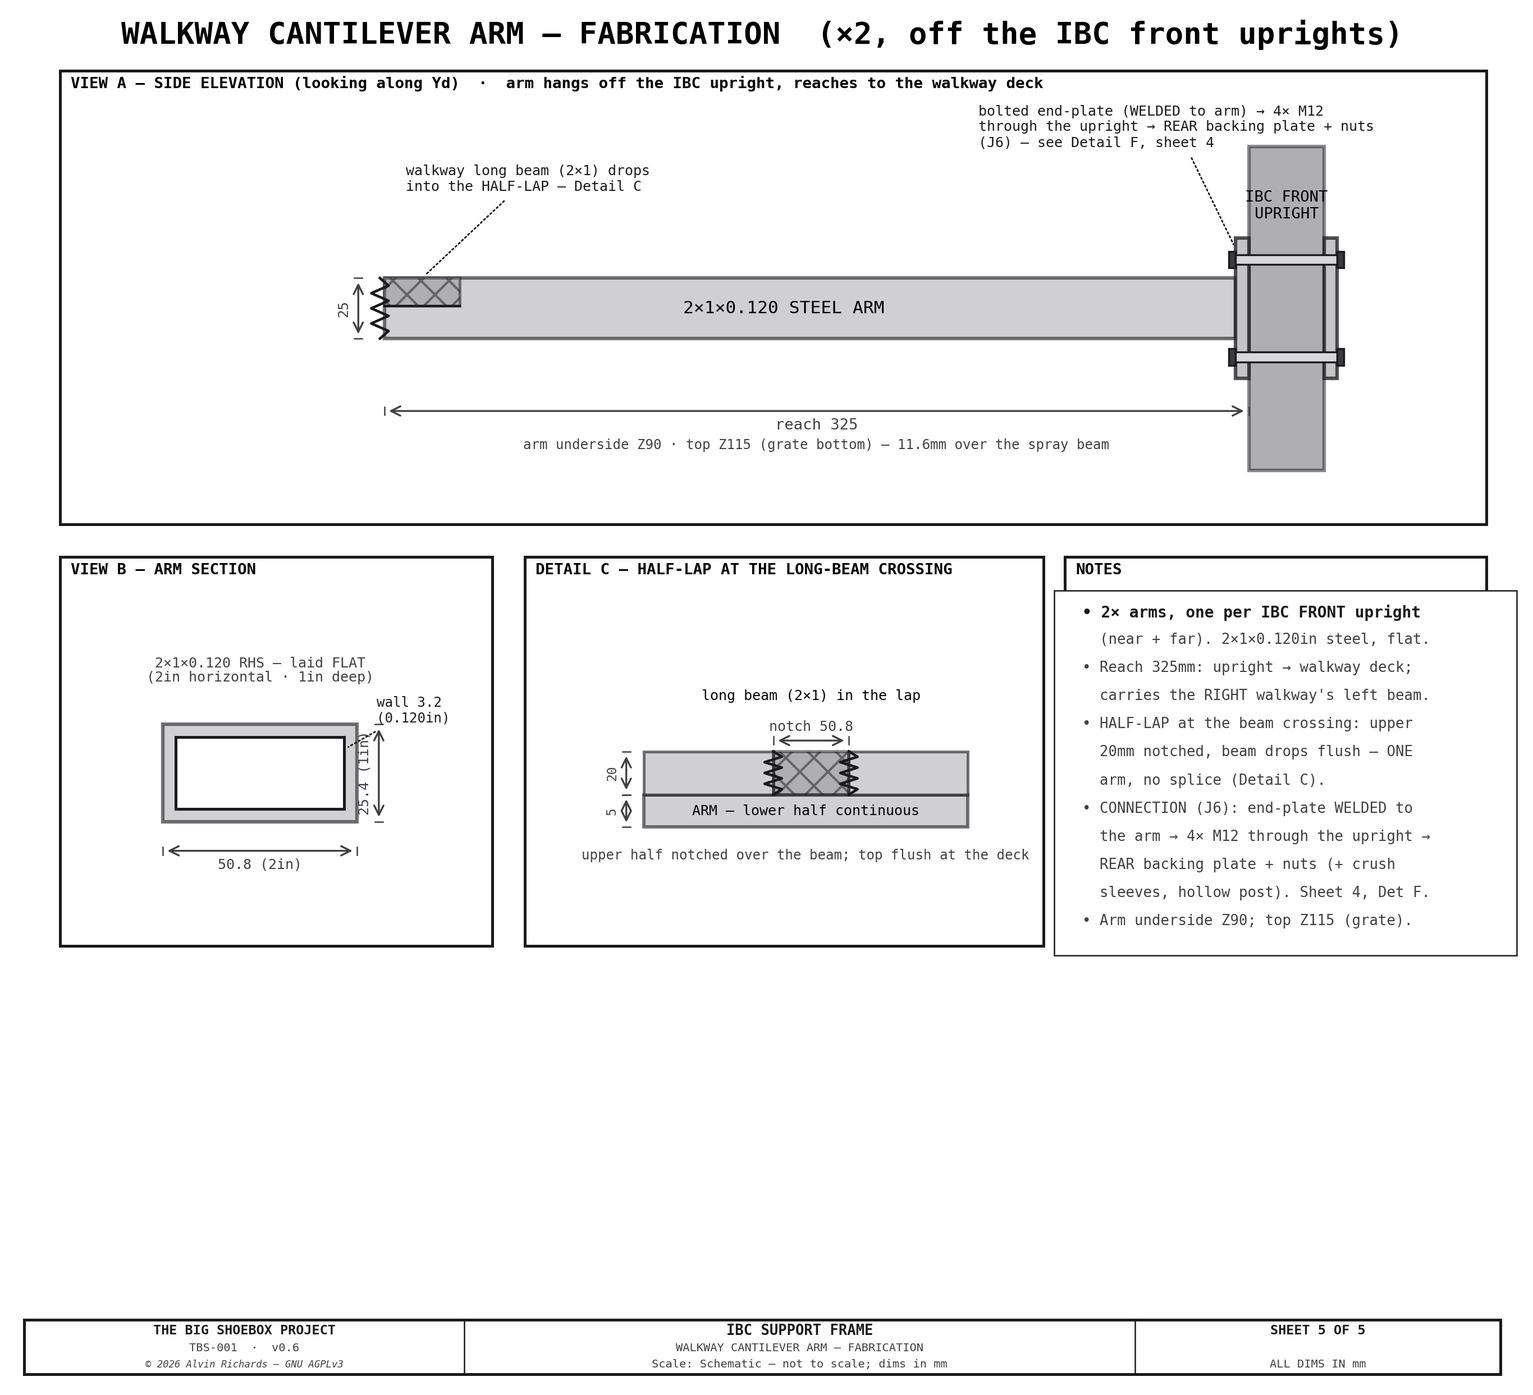
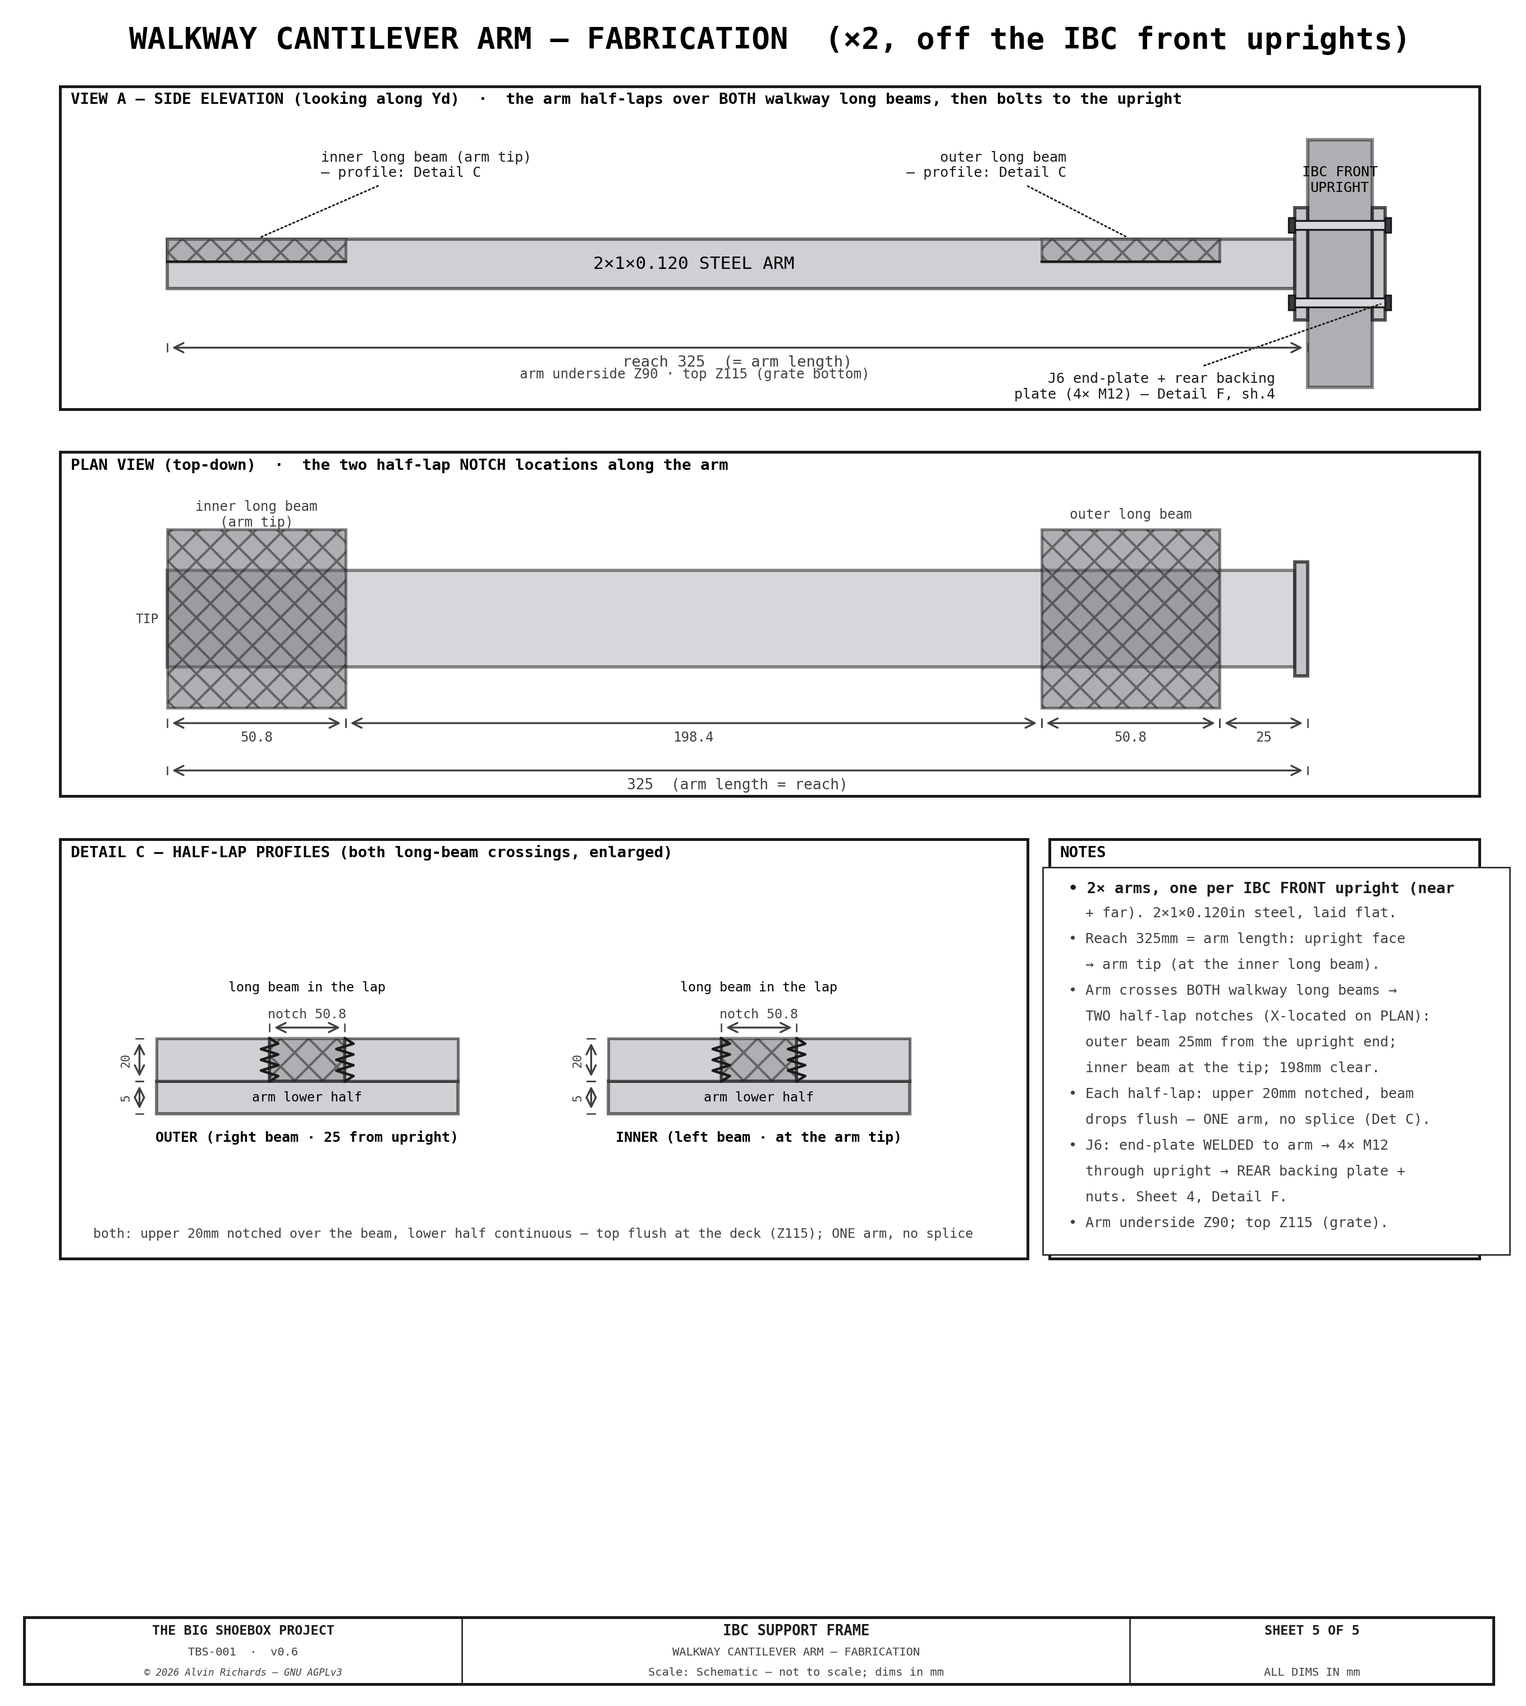
IBC frame Sheet 5: drop VIEW B, add PLAN view + both notch profiles
The arm crosses BOTH right-walkway long beams (RWK_BEARER_XS = 4329, 4578),
so it has TWO half-lap notches, not one. Reworked Sheet 5:
- Removed VIEW B (arm section) - added no value.
- VIEW A side elevation now shows both beam half-laps + the J6 end-plate.
- NEW PLAN VIEW (top-down) locating the two notches with a chain dimension:
  50.8 / 198.4 / 50.8 / 25 -> 325 (outer beam 25mm from the upright end,
  inner beam at the tip, 198mm clear).
- DETAIL C now shows BOTH half-lap profiles (OUTER + INNER) side by side.

Report §3.5 embed lead-in + §8 Sheet 5 description updated to match.

Changed region(s): [[0.0309, 0.0, 0.9577, 0.7437], [0.0309, 0.9296, 0.9886, 0.9915], [0.3398, 0.6507, 0.3707, 0.6817]]

diff --git a/src/generators/generate_ibc_frame_drawing.py b/src/generators/generate_ibc_frame_drawing.py
@@ -1250,82 +1250,95 @@ def sheet4():
 def sheet5():
     """Sheet 5 — the 2 walkway cantilever arms that hang off the IBC FRONT uprights (fab).
     The arm's own detailing (section, reach, half-lap); the clamp CONNECTION is Detail F on sheet4."""
-    fig, ax = plt.subplots(figsize=(16.5, 10.5))
-    ax.set_xlim(-20, 1360); ax.set_ylim(-360, 900); ax.set_aspect("equal"); ax.axis("off")
-    ax.text(670, 875, "WALKWAY CANTILEVER ARM — FABRICATION  (×2, off the IBC front uprights)",
+    fig, ax = plt.subplots(figsize=(16.5, 12.9))
+    ax.set_xlim(-20, 1360); ax.set_ylim(-360, 1195); ax.set_aspect("equal"); ax.axis("off")
+    ax.text(680, 1165, "WALKWAY CANTILEVER ARM — FABRICATION  (×2, off the IBC front uprights)",
             fontsize=13, fontweight="bold", ha="center", **FONT)
 
-    # ── VIEW A — SIDE ELEVATION (X–Z, looking along Yd): upright → arm → deck long-beam ──
-    _dcell(ax, 20, 430, 1320, 420, "VIEW A — SIDE ELEVATION (looking along Yd)  ·  arm hangs off the IBC upright, reaches to the walkway deck")
-    az = 630                                                   # arm centreline (schematic Z, inside the cell)
-    ah = 56                                                    # arm depth drawn (25.4 exaggerated)
-    ux = 1120                                                  # upright face X (schematic)
-    dx = 320                                                   # deck long-beam X (schematic)
-    _rhs_rect(ax, ux, az - 150, 70, 300, fc=C_FRAME, alpha=0.5, zo=4)                     # IBC front upright (within the cell)
-    ax.text(ux + 35, az + 95, "IBC FRONT\nUPRIGHT", fontsize=6.5, ha="center", va="center", **FONT, zorder=8)
-    ep_x, ep_h = 12, 130                                                                 # arm END-PLATE (drawn thickness / height)
-    _rhs_rect(ax, dx, az - ah/2, ux - ep_x - dx, ah, fc=C_STEEL, alpha=0.6, zo=5)         # the 2×1×0.120 arm (ends at the end-plate)
-    ax.text((dx + ux)/2 - 30, az, "2×1×0.120 STEEL ARM", fontsize=7.5, ha="center", va="center", **FONT, zorder=8)
-    lbw = 70                                                                             # half-lap: arm TOP notched over the long-beam width
-    ax.add_patch(Rectangle((dx, az + 2), lbw, ah/2 - 2, fc=BG, ec="none", zorder=6))
-    ax.add_patch(Rectangle((dx, az + 2), lbw, ah/2 - 2, fc=C_FRAME, ec=C_OUT, alpha=0.5, hatch="xx", lw=1.2, zorder=7))  # long beam in the lap
-    ax.plot([dx, dx + lbw], [az + 2, az + 2], color=C_OUT, lw=1.0, zorder=8)             # half-lap line
-    _break(ax, dx - 4, az - ah/2, az + ah/2)                                             # long beam continues in Yd (out of page)
-    leader(ax, dx + lbw/2, az + ah/2, dx + 20, az + 120, "walkway long beam (2×1) drops\ninto the HALF-LAP — Detail C", fs=6, font=FONT, ha="left")
-    # J6 — bolted end-plate: plate WELDED to the arm end → 4× M12 through the upright → REAR backing plate + nuts
-    ax.add_patch(Rectangle((ux - ep_x, az - ep_h/2), ep_x, ep_h, fc=C_STEEL, ec=C_OUT, alpha=0.75, lw=1.5, zorder=9))   # end-plate on the −X face (welded to arm)
-    ax.add_patch(Rectangle((ux + 70, az - ep_h/2), ep_x, ep_h, fc=C_STEEL, ec=C_OUT, alpha=0.75, lw=1.5, zorder=9))     # rear backing plate on the +X face
-    for bz in (az - 45, az + 45):                                                        # 2 of the 4 bolts show (the Yd pair projects onto each)
-        _bolt(ax, ux - ep_x, bz, 70 + 2 * ep_x, d=9, nut=True)
-    leader(ax, ux - ep_x, az + 55, ux - 250, az + 168,
-           "bolted end-plate (WELDED to arm) → 4× M12\nthrough the upright → REAR backing plate + nuts\n(J6) — see Detail F, sheet 4", fs=6, font=FONT, ha="left")
-    draw_dim_h(ax, dx, ux, az - 95, "reach 325", fs=6.5, font=FONT, above=False)
-    draw_dim_v(ax, dx - 24, az - ah/2, az + ah/2, "25", fs=6, font=FONT)
-    ax.text((dx + ux) / 2, az - 130, "arm underside Z90 · top Z115 (grate bottom) — 11.6mm over the spray beam",
-            fontsize=5.8, ha="center", color=C_DIM, **FONT)
+    # ── schematic X map along the arm: tip (inner-beam L edge) → upright face, reach 325 ──
+    XT, XUP, ep_x = 120, 1180, 12
+    SCL = (XUP - XT) / 325.0                                    # px per mm along the arm
+    def axm(mm): return XT + mm * SCL                           # mm from the tip → schematic X
+    XIN0, XIN1 = axm(0.0),   axm(50.8)                          # inner notch — LEFT long beam (at the arm tip)
+    XOUT0, XOUT1 = axm(249.2), axm(300.0)                       # outer notch — RIGHT long beam
+    _hatch = dict(fc=C_FRAME, ec=C_OUT, alpha=0.5, hatch="xx")
 
-    # ── VIEW B — ARM SECTION (2×1×0.120) ──
-    _dcell(ax, 20, 40, 400, 360, "VIEW B — ARM SECTION")
-    scx, scy = 205, 200
-    _rhs_rect(ax, scx - 90, scy - 45, 180, 90, fc=C_STEEL, alpha=0.6, zo=5)
-    ax.add_patch(Rectangle((scx - 78, scy - 33), 156, 66, fc=BG, ec=C_OUT, lw=1.2, zorder=6))   # bore (wall shown)
-    draw_dim_h(ax, scx - 90, scx + 90, scy - 72, "50.8 (2in)", fs=6, font=FONT, above=False)
-    draw_dim_v(ax, scx + 110, scy - 45, scy + 45, "25.4 (1in)", fs=6, font=FONT)
-    leader(ax, scx + 78, scy + 22, scx + 108, scy + 58, "wall 3.2\n(0.120in)", fs=5.8, font=FONT, ha="left")
-    ax.text(scx, scy + 98, "2×1×0.120 RHS — laid FLAT", fontsize=6, ha="center", color=C_DIM, **FONT)
-    ax.text(scx, scy + 85, "(2in horizontal · 1in deep)", fontsize=6, ha="center", color=C_DIM, **FONT)
+    # ── VIEW A — SIDE ELEVATION (looking along Yd): arm crosses BOTH long beams, then bolts to the upright ──
+    _dcell(ax, 20, 830, 1320, 300, "VIEW A — SIDE ELEVATION (looking along Yd)  ·  the arm half-laps over BOTH walkway long beams, then bolts to the upright")
+    az, ah, ep_h = 965, 46, 104                                # arm centreline Z / drawn depth / end-plate height
+    _rhs_rect(ax, XUP, az - 115, 60, 230, fc=C_FRAME, alpha=0.5, zo=4)                    # IBC front upright
+    ax.text(XUP + 30, az + 78, "IBC FRONT\nUPRIGHT", fontsize=6, ha="center", va="center", **FONT, zorder=8)
+    ax.add_patch(Rectangle((XT, az - ah/2), (XUP - ep_x) - XT, ah, fc=C_STEEL, ec=C_OUT, alpha=0.6, lw=1.4, zorder=5))  # the arm
+    for n0, n1 in ((XIN0, XIN1), (XOUT0, XOUT1)):                                          # long beam dropped into each half-lap
+        ax.add_patch(Rectangle((n0, az + 2), n1 - n0, ah/2 - 2, fc=BG, ec="none", zorder=6))
+        ax.add_patch(Rectangle((n0, az + 2), n1 - n0, ah/2 - 2, lw=1.2, zorder=7, **_hatch))
+        ax.plot([n0, n1], [az + 2, az + 2], color=C_OUT, lw=1.0, zorder=8)                # half-lap line
+    ax.text((XIN1 + XOUT0)/2, az, "2×1×0.120 STEEL ARM", fontsize=7.5, ha="center", va="center", **FONT, zorder=8)
+    leader(ax, (XIN0+XIN1)/2, az + ah/2, (XIN0+XIN1)/2 + 60, az + 92, "inner long beam (arm tip)\n— profile: Detail C", fs=6, font=FONT, ha="left")
+    leader(ax, (XOUT0+XOUT1)/2, az + ah/2, (XOUT0+XOUT1)/2 - 60, az + 92, "outer long beam\n— profile: Detail C", fs=6, font=FONT, ha="right")
+    ax.add_patch(Rectangle((XUP - ep_x, az - ep_h/2), ep_x, ep_h, fc=C_STEEL, ec=C_OUT, alpha=0.75, lw=1.4, zorder=9))  # end-plate (welded to arm)
+    ax.add_patch(Rectangle((XUP + 60, az - ep_h/2), ep_x, ep_h, fc=C_STEEL, ec=C_OUT, alpha=0.75, lw=1.4, zorder=9))    # rear backing plate
+    for bz in (az - 36, az + 36):
+        _bolt(ax, XUP - ep_x, bz, 60 + 2 * ep_x, d=8, nut=True)
+    leader(ax, XUP + 60 + ep_x, az - 36, XUP - 30, az - 114, "J6 end-plate + rear backing\nplate (4× M12) — Detail F, sh.4", fs=6, font=FONT, ha="right")
+    draw_dim_h(ax, XT, XUP, az - 78, "reach 325  (= arm length)", fs=6.5, font=FONT, above=False)
+    ax.text((XT + XUP)/2 - 40, az - 106, "arm underside Z90 · top Z115 (grate bottom)", fontsize=5.8, ha="center", color=C_DIM, **FONT)
 
-    # ── DETAIL C — HALF-LAP (enlarged) ──
-    _dcell(ax, 450, 40, 480, 360, "DETAIL C — HALF-LAP AT THE LONG-BEAM CROSSING")
-    hx, hz = 560, 150
-    ax.add_patch(Rectangle((hx, hz), 300, 30, fc=C_STEEL, ec=C_OUT, alpha=0.6, lw=1.4, zorder=5))   # arm LOWER half (continuous)
-    ax.text(hx + 150, hz + 15, "ARM — lower half continuous", fontsize=6, ha="center", va="center", **FONT, zorder=8)
-    ax.add_patch(Rectangle((hx, hz + 30), 120, 40, fc=C_STEEL, ec=C_OUT, alpha=0.6, lw=1.2, zorder=5))   # arm upper half (left)
-    ax.add_patch(Rectangle((hx + 190, hz + 30), 110, 40, fc=C_STEEL, ec=C_OUT, alpha=0.6, lw=1.2, zorder=5))  # arm upper half (right)
-    ax.add_patch(Rectangle((hx + 120, hz + 30), 70, 40, fc=C_FRAME, ec=C_OUT, alpha=0.5, hatch="xx", lw=1.4, zorder=6))  # long beam in the notch
-    _break(ax, hx + 120, hz + 30, hz + 70); _break(ax, hx + 190, hz + 30, hz + 70)
-    draw_dim_h(ax, hx + 120, hx + 190, hz + 80, "notch 50.8", fs=6, font=FONT, above=True)
-    ax.text(hx + 155, hz + 118, "long beam (2×1) in the lap", fontsize=6, ha="center", **FONT, zorder=8)
-    draw_dim_v(ax, hx - 16, hz + 30, hz + 70, "20", fs=5.5, font=FONT)     # upper half notched away
-    draw_dim_v(ax, hx - 16, hz, hz + 30, "5", fs=5.5, font=FONT)           # lower half remaining
-    ax.text(hx + 150, hz - 30, "upper half notched over the beam; top flush at the deck", fontsize=5.8, ha="center", color=C_DIM, **FONT)
+    # ── PLAN VIEW — top-down: the two notch LOCATIONS along the arm ──
+    _dcell(ax, 20, 470, 1320, 320, "PLAN VIEW (top-down)  ·  the two half-lap NOTCH locations along the arm")
+    py, dw = 635, 90                                            # arm centreline (Yd) / drawn width (50.8 exaggerated)
+    ax.add_patch(Rectangle((XT, py - dw/2), (XUP - ep_x) - XT, dw, fc=C_STEEL, ec=C_OUT, alpha=0.5, lw=1.4, zorder=5))  # arm, top-down
+    ax.add_patch(Rectangle((XUP - ep_x, py - dw/2 - 8), ep_x, dw + 16, fc=C_STEEL, ec=C_OUT, alpha=0.75, lw=1.4, zorder=7))  # end-plate
+    for (n0, n1), lbl in (((XIN0, XIN1), "inner long beam\n(arm tip)"), ((XOUT0, XOUT1), "outer long beam")):
+        ax.add_patch(Rectangle((n0, py - dw/2 - 38), n1 - n0, dw + 76, lw=1.2, zorder=6, **_hatch))   # long beam crossing (runs in Yd)
+        ax.text((n0 + n1)/2, py + dw/2 + 52, lbl, fontsize=5.8, ha="center", va="center", color=C_DIM, **FONT)
+    ax.text(XT - 8, py, "TIP", fontsize=5.5, ha="right", va="center", color=C_DIM, **FONT)
+    zc = py - dw/2 - 52                                         # chain-dim line
+    draw_dim_h(ax, XT, XIN1, zc, "50.8", fs=5.8, font=FONT, above=False)
+    draw_dim_h(ax, XIN1, XOUT0, zc, "198.4", fs=5.8, font=FONT, above=False)
+    draw_dim_h(ax, XOUT0, XOUT1, zc, "50.8", fs=5.8, font=FONT, above=False)
+    draw_dim_h(ax, XOUT1, XUP, zc, "25", fs=5.8, font=FONT, above=False)
+    draw_dim_h(ax, XT, XUP, zc - 44, "325  (arm length = reach)", fs=6.3, font=FONT, above=False)
+
+    # ── DETAIL C — the TWO half-lap profiles (enlarged) ──
+    _dcell(ax, 20, 40, 900, 390, "DETAIL C — HALF-LAP PROFILES (both long-beam crossings, enlarged)")
+
+    def _halflap(cx, cz, title):
+        ax.add_patch(Rectangle((cx - 140, cz), 280, 30, fc=C_STEEL, ec=C_OUT, alpha=0.6, lw=1.4, zorder=5))   # lower half continuous
+        ax.text(cx, cz + 15, "arm lower half", fontsize=5.6, ha="center", va="center", **FONT, zorder=8)
+        ax.add_patch(Rectangle((cx - 140, cz + 30), 105, 40, fc=C_STEEL, ec=C_OUT, alpha=0.6, lw=1.2, zorder=5))  # upper (left)
+        ax.add_patch(Rectangle((cx + 35, cz + 30), 105, 40, fc=C_STEEL, ec=C_OUT, alpha=0.6, lw=1.2, zorder=5))   # upper (right)
+        ax.add_patch(Rectangle((cx - 35, cz + 30), 70, 40, lw=1.4, zorder=6, **_hatch))                          # long beam in the lap
+        _break(ax, cx - 35, cz + 30, cz + 70); _break(ax, cx + 35, cz + 30, cz + 70)
+        draw_dim_h(ax, cx - 35, cx + 35, cz + 80, "notch 50.8", fs=5.6, font=FONT, above=True)
+        ax.text(cx, cz + 114, "long beam in the lap", fontsize=5.6, ha="center", **FONT, zorder=8)
+        draw_dim_v(ax, cx - 140 - 16, cz + 30, cz + 70, "20", fs=5.2, font=FONT)   # upper notched away
+        draw_dim_v(ax, cx - 140 - 16, cz, cz + 30, "5", fs=5.2, font=FONT)         # lower continuous
+        ax.text(cx, cz - 26, title, fontsize=6, ha="center", fontweight="bold", **FONT, zorder=8)
+
+    _halflap(250, 175, "OUTER (right beam · 25 from upright)")
+    _halflap(670, 175, "INNER (left beam · at the arm tip)")
+    ax.text(460, 60, "both: upper 20mm notched over the beam, lower half continuous — top flush at the deck (Z115); ONE arm, no splice",
+            fontsize=5.6, ha="center", color=C_DIM, **FONT)
 
     # ── NOTES ──
-    _dcell(ax, 950, 40, 390, 360, "NOTES")
+    _dcell(ax, 940, 40, 400, 390, "NOTES")
     draw_notes(ax, [
-        "• 2× arms, one per IBC FRONT upright",
-        "  (near + far). 2×1×0.120in steel, flat.",
-        "• Reach 325mm: upright → walkway deck;",
-        "  carries the RIGHT walkway's left beam.",
-        "• HALF-LAP at the beam crossing: upper",
-        "  20mm notched, beam drops flush — ONE",
-        "  arm, no splice (Detail C).",
-        "• CONNECTION (J6): end-plate WELDED to",
-        "  the arm → 4× M12 through the upright →",
-        "  REAR backing plate + nuts (+ crush",
-        "  sleeves, hollow post). Sheet 4, Det F.",
+        "• 2× arms, one per IBC FRONT upright (near",
+        "  + far). 2×1×0.120in steel, laid flat.",
+        "• Reach 325mm = arm length: upright face",
+        "  → arm tip (at the inner long beam).",
+        "• Arm crosses BOTH walkway long beams →",
+        "  TWO half-lap notches (X-located on PLAN):",
+        "  outer beam 25mm from the upright end;",
+        "  inner beam at the tip; 198mm clear.",
+        "• Each half-lap: upper 20mm notched, beam",
+        "  drops flush — ONE arm, no splice (Det C).",
+        "• J6: end-plate WELDED to arm → 4× M12",
+        "  through upright → REAR backing plate +",
+        "  nuts. Sheet 4, Detail F.",
         "• Arm underside Z90; top Z115 (grate).",
-    ], 966, 356, spacing=26, fs=6.2, font=FONT, width=376)
+    ], 958, 392, spacing=24, fs=6.0, font=FONT, width=386)
 
     title_block(ax, "SHEET 5 OF 5",
                 drawing_title="IBC SUPPORT FRAME",

diff --git a/ibc-stacking-report.md b/ibc-stacking-report.md
@@ -211,7 +211,7 @@ These joints are drawn on **Sheet 4** (each with its weld + fastener callout):
 
 ![TBS-001 IBC Frame — Sheet 4: Fabrication Details](assets/ibc-frame-sheet4.png)
 
-The walkway cantilever arms — how each arm is cut, the half-lap where it crosses the walkway deck long-beam, and the section — are drawn on **Sheet 5** (the connection into the upright is the same J6 end-plate shown on Sheet 4, Detail F):
+The walkway cantilever arms — how each arm is cut, and the **two half-laps** where it crosses the walkway's inner + outer long beams (located on the plan view) — are drawn on **Sheet 5** (the connection into the upright is the same J6 end-plate shown on Sheet 4, Detail F):
 
 ![TBS-001 IBC Frame — Sheet 5: Walkway Cantilever Arm Fabrication](assets/ibc-frame-sheet5.png)
 
@@ -415,7 +415,7 @@ relevant sections above; the full set is collected here and in [Engineering Diag
 **Sheet 4 — Fabrication details: DETAIL A wall joist hanger (per-bar, 2-bolt, 50mm clearance), B bar→upright cleat, C weld-on lashing ring, D rear-panel bracket, E side-panel pipe-run L-bracket, F walkway arm→front-upright bolted end-plate (arm end-plate + rear backing plate, 4× M12 through-bolts, J6) — each with weld (W) + fastener (J) callouts**
 ![TBS-001 IBC Frame — Sheet 4](assets/ibc-frame-sheet4.png)
 
-**Sheet 5 — Walkway cantilever arm fabrication (×2, off the IBC front uprights): VIEW A side elevation (arm reaching 325 mm from the upright to the walkway deck; J6 bolted end-plate — plate welded to the arm, 4× M12 through the upright into a rear backing plate), VIEW B arm section (2×1×0.120 RHS laid flat), DETAIL C half-lap where the arm crosses the deck long-beam (upper 20 mm notched, beam drops in flush — one continuous arm)**
+**Sheet 5 — Walkway cantilever arm fabrication (×2, off the IBC front uprights): VIEW A side elevation (arm reaching 325 mm from the upright to the tip; J6 bolted end-plate — plate welded to the arm, 4× M12 through the upright into a rear backing plate), PLAN VIEW locating the two half-lap notches along the arm (outer long beam 25 mm from the upright end, inner long beam at the tip, 198 mm clear between), DETAIL C the two half-lap profiles (each: upper 20 mm notched, beam drops in flush — one continuous arm, no splice)**
 ![TBS-001 IBC Frame — Sheet 5](assets/ibc-frame-sheet5.png)
 
 **Plate Schedule Sheet 1 — Structural plates drawn 1:1 for the shop: PLATE 1 IBC floor foot (150×150×12, 4× Ø14 @ 100 sq PCD), PLATE 2 wall-hanger exterior backing (60×205×8, 2× Ø14 @ 169), PLATE 3 wall-hanger pocket (folded 4 mm back-plate + 70 seat, J3 + J7 holes) — each with outline dims, hole Ø + center positions, thickness, material, and qty**

diff --git a/RELEASE.md b/RELEASE.md
@@ -27,11 +27,13 @@ file** — a release must not ship without a changelog entry:
 - **NEW — IBC frame Sheet 5: walkway cantilever-arm fabrication (`ibc-frame-sheet5.png`).** The 2 walkway
   cantilever arms that hang off the IBC front uprights are now drawn as a fabrication sheet in the IBC-frame set
   (keeping all the IBC-frame metal together rather than deferring to a separate walkway blueprint): VIEW A side
-  elevation (2×1×0.120 steel arm reaching 325 mm from the upright to the walkway deck), VIEW B arm section
-  (RHS laid flat), DETAIL C the half-lap where the arm crosses the deck long-beam (upper 20 mm notched so the
-  beam drops in flush — one continuous arm, no splice). Sheet count bumped to OF 5; registered in the gallery /
-  publish.sh / setup_docs / dependencies.yml and embedded in report §3.5 + §8. The two "detailed in the walkway
-  blueprint" notes re-scoped to point at Sheet 5. (2D only; the 3D ibc-stack arm + full model cascade to follow.)
+  elevation (2×1×0.120 steel arm reaching 325 mm from the upright to the tip, half-lapping over BOTH walkway
+  long beams), a PLAN VIEW locating the **two** half-lap notches along the arm (outer beam 25 mm from the upright
+  end, inner beam at the tip, 198 mm clear — the arm crosses both `RWK_BEARER_XS`), and DETAIL C with **both**
+  half-lap profiles (each: upper 20 mm notched so the beam drops in flush — one continuous arm, no splice).
+  Sheet count bumped to OF 5; registered in the gallery / publish.sh / setup_docs / dependencies.yml and embedded
+  in report §3.5 + §8. The two "detailed in the walkway blueprint" notes re-scoped to point at Sheet 5. (2D only;
+  the 3D ibc-stack arm + full model cascade to follow.)
 
 - **J6 walkway-arm joint redesigned: clamp → bolted end-plate (Sheet 4 Detail F + Sheet 5 + report).** The old
   J6 (2 clamp plates wrapping the upright + 2× M12, carrying the moment by friction over a 37 mm spacing) read
